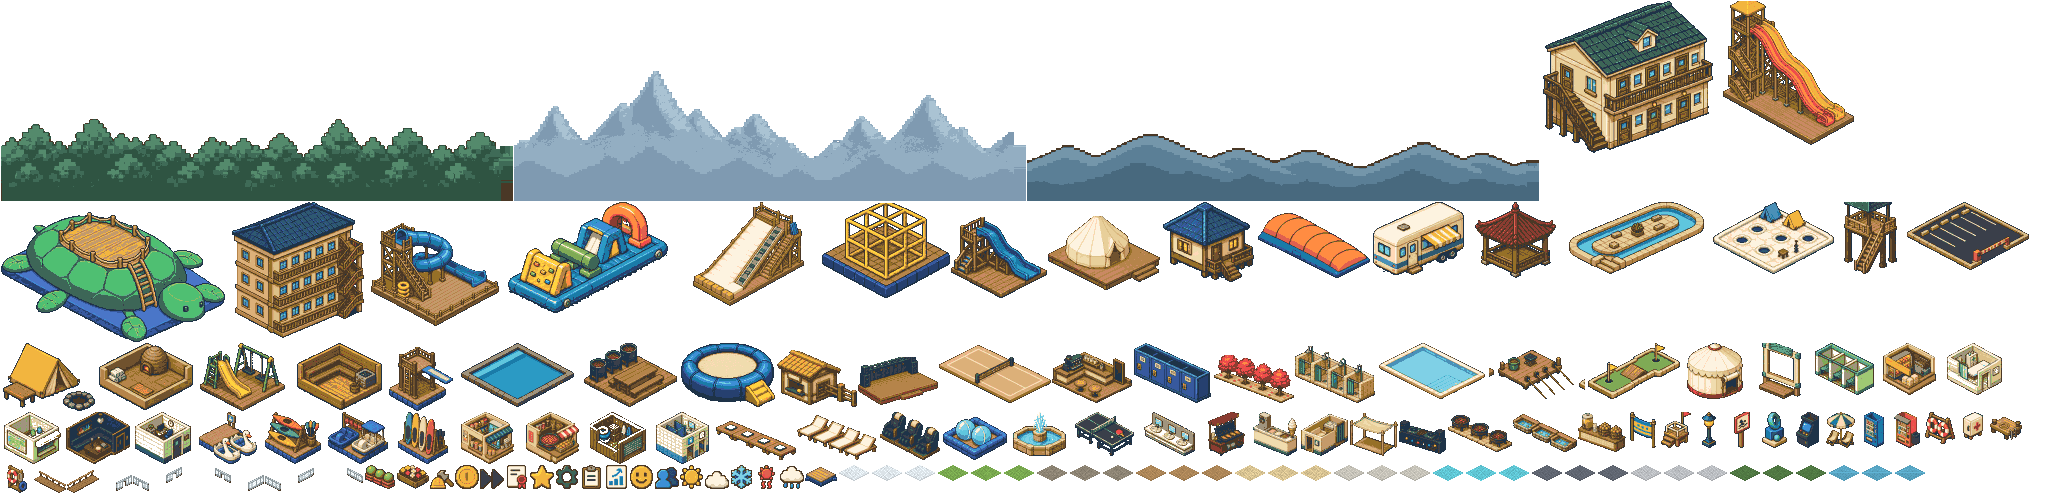
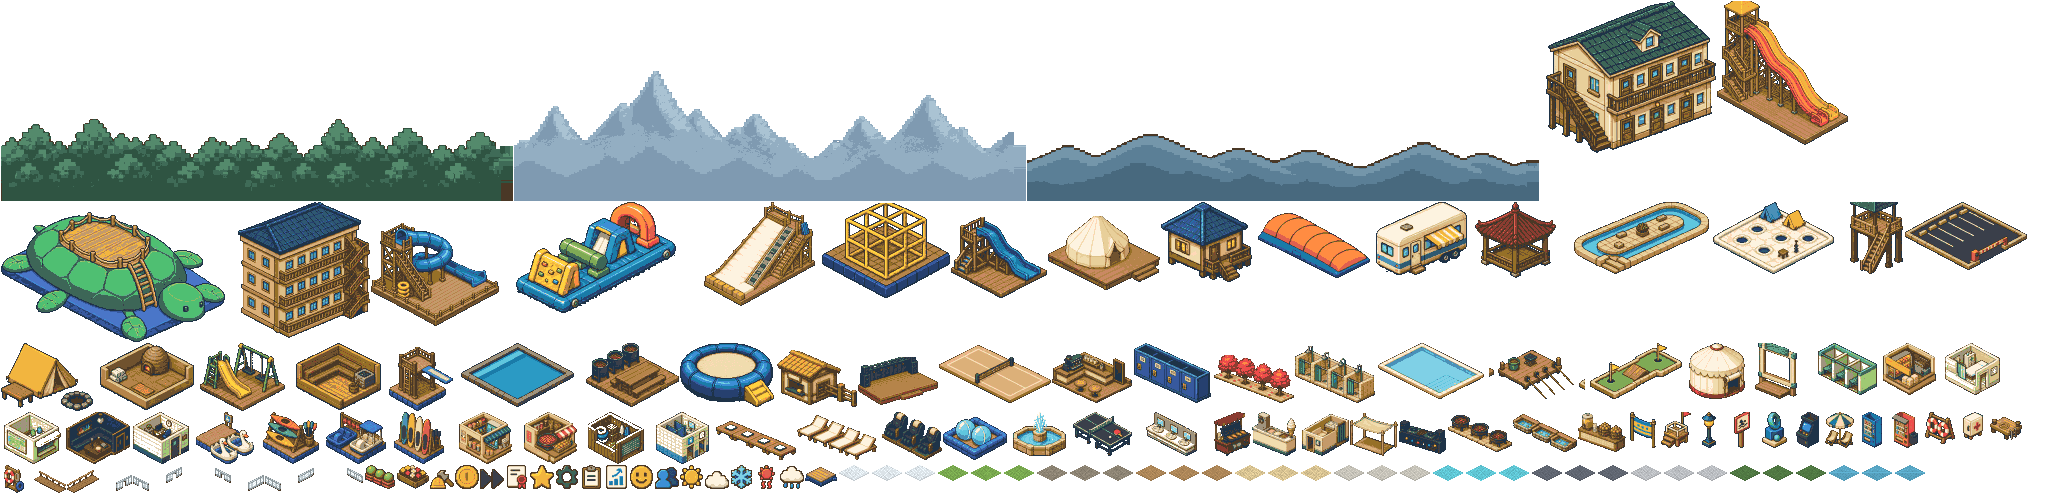
추출기가 스프라이트를 잘못된 자리에 놓고 있었다 — 접지 위반 65 → 56
각도 문제의 일부는 **그림 결함이 아니라 위치 결함**이었다. 그림을 다시 뽑지 않고 고쳤다
(원본 시트 34장이 저장소에 있어 **재추출만** 했다 — 이미지 생성 0회).

## 원인 — 가운데 정렬이 애초에 틀린 규칙이었다

`tools/process-kairo-sheet.py` 의 `render_asset` 이 피사체를 **가로 bbox 가운데**에 놓았다
(`x = (aw-rw)//2`). 그런데 계약이 요구하는 것은 **바닥 꼭짓점이 `w/(w+d)`** 다.
**정사각이면 둘 다 0.5 라 같지만 비정사각은 다르다** — 4×1 은 0.800, 2×3 은 0.400.
그래서 비정사각 시설이 전부 어긋나 있었다.

⚠ **지면이 33/33 통과하는 이유가 같은 자리에 있었다** — `render_ground_asset` 은
`diamond_mask()` 로 기하를 강제하는데 시설 경로에는 그 처리가 없다. 게이트가 그 차이를
"지면은 통과, 시설만 빨강"으로 이미 가리키고 있었다.

## 고친 방법 — 위치 교정이지 기하 보정이 아니다

`ground_vertex_shift()`: 접지 밴드(하단 `(w+d)×8` 텍셀)에서 **게이트와 같은 추정기**로
바닥 꼭짓점을 재고, 계약값(`meanX = 16w − 0.5`)까지의 차이만큼 **정수 픽셀 평행이동**한다.
발자국·`bodyH` 를 새로 선언하지 않고 **게이트가 읽는 같은 두 파일**에서 읽는다 — 규칙이
두 벌이 될 자리가 없다.

⚠ **전단·스케일·리샘플 금지.** 사용자가 "후처리로 기하 보정"을 명시적으로 물리고
"가이드+게이트로 재생성"을 골랐다. 평행이동은 **놓인 자리를 옮기는 것**이고 픽셀을 한 개도
안 바꾼다 — 그 구분을 코드 주석에 적었다.

⚠ **계획과 한 군데 다르게 했다.** "잘리면 옮기지 말고 보고"를 그대로 하니 **38종이 못
움직였다** — `render_asset` 이 피사체를 캔버스에 꽉 차게 확대해서 여백이 0 인 경우가 흔하다.
대신 **가용 여백으로 클램프**했다 (부분 이동도 무손실이고 꼭짓점 오차를 단조 감소시킨다).
`dx_wanted ≠ dx_applied` 를 리포트에 남긴다.

## 결과

| | 전 | 후 |
|---|---|---|
| 접지 위반 | **65** | **56** |
| 심각 | 19 | 17 |
| 축뒤집힘 | 12 | 11 |
| 지면 | 33/33 | 33/33 (안 건드렸다) |

**통과 9종** — `changing_row`(+3) `massage_row`(+2) `vending_in`(−2) `office`(−2)
`storage`(−2) `parking`(−2) `photozone`(−4) `vending_out`(−2) `lifering`(−3).
**나아짐 30종** · **변화 없음 36종**(dx=0 → 바이트 동일) · **나빠진 것 0**
(축 단위로도 새로 생긴 위반 축 0건).
[…]

diff --git a/tools/process-kairo-sheet.py b/tools/process-kairo-sheet.py
@@ -21,6 +21,8 @@ from PIL import Image
 ROOT = Path(__file__).resolve().parents[1]
 DEFAULT_DOC = ROOT / "docs" / "asset-prompts.md"
 DEFAULT_OUT = ROOT / "assets" / "generated" / "kairo"
+SIM_FACILITIES = ROOT / "src" / "data" / "kairo-facilities.json"
+RENDER_CONTRACT = ROOT / "src" / "assets" / "kairo-render-contract.json"
 
 GLOBAL_PALETTE = (
     "8fbc63 7faa55 9fc973 e8cf9a dcc088 f0dcae "
@@ -37,6 +39,39 @@ class Asset:
     filename: str
     width: int
     height: int
+
+
+@dataclass(frozen=True)
+class Footprint:
+    """The contract geometry a facility sprite has to sit on.
+
+    ``w`` x ``d`` tiles, drawn on a ``(w+d)*16`` x ``(w+d)*8 + body_h`` canvas whose
+    bottom ``(w+d)*8`` rows are exactly the ground diamond (see ``tools/ground-geometry.ts``).
+    """
+
+    w: int
+    d: int
+    body_h: int
+
+
+def facility_footprints() -> dict[str, Footprint]:
+    """Read `w x d` (sim) and `bodyH` (render) for every facility sprite.
+
+    Both files are the existing contract; nothing new is declared here.  The gate
+    (`tools/kairo-gate.ts`) measures against the very same two numbers, so the extractor
+    and the gate cannot drift apart.
+    """
+    sizes = {
+        f["sprite"]: (int(f["size"][0]), int(f["size"][1]))
+        for f in json.loads(SIM_FACILITIES.read_text(encoding="utf-8"))["facilities"].values()
+    }
+    out: dict[str, Footprint] = {}
+    for spec in json.loads(RENDER_CONTRACT.read_text(encoding="utf-8"))["facilities"]:
+        size = sizes.get(spec["sprite"])
+        if size is None:
+            continue
+        out[spec["sprite"]] = Footprint(size[0], size[1], int(spec["bodyH"]))
+    return out
 
 
 def section_for(doc: str, sheet: str) -> str:
@@ -273,11 +308,92 @@ def subject_bbox(cell: Image.Image, label_fraction: float) -> tuple[int, int, in
     )
 
 
+def ground_vertex_shift(
+    image: Image.Image, footprint: Footprint
+) -> tuple[int, dict[str, object]]:
+    """How many whole pixels sideways the drawing has to move to sit on its own tile.
+
+    ## Position, not geometry
+
+    This is a **lossless integer translation** — every pixel keeps its colour and its
+    neighbours, the drawing is never sheared, scaled or resampled.  It corrects *where the
+    picture was put down*, which is this tool's own doing (the old code centred the subject
+    bounding box), not *how the picture was drawn*, which is the generator's.  Drawings whose
+    angle is actually wrong are fixed by re-prompting with a guide and re-running the gate,
+    which is a deliberate project decision — so do **not** grow this into a shear/scale
+    "geometry correction".  Warping the raster would make the gate green while the sprite
+    stops matching the guide it was generated from, and the gate would no longer be measuring
+    the drawing at all.
+
+    ## Why bbox-centring is wrong
+
+    The contract puts the footprint's **bottom vertex** at `w/(w+d)` of the canvas width
+    (`tools/ground-geometry.ts`), because the canvas is the bounding box of the `w x d`
+    diamond.  That equals the middle only when `w == d`.  A 4x1 wants 0.800 and a 2x3 wants
+    0.400, so centring a non-square footprint files the drawing onto the wrong tile — up to a
+    quarter tile off.  `render_ground_asset` never had this bug because it imposes
+    `diamond_mask()`; facilities had no such step, and that is where most of the reported
+    "wrong angle" came from.
+
+    ## Never crop
+
+    Many subjects are scaled until they touch both canvas edges, so the full correction does
+    not always fit.  The shift is clamped to the empty margin actually available: moving as
+    far as the canvas allows stays lossless and strictly reduces the vertex error, while
+    cropping would trade one defect for another.  `dx_wanted != dx_applied` in the report
+    marks every sprite the canvas held back (`dx_applied == 0` means it could not move at
+    all), which is a regeneration list, not a silent pass.
+
+    Returns `(dx, details)`; `dx` is 0 when there is no measurable ground contour, when the
+    drawing is already right, or when there is no margin to move into.
+    """
+    width, height = image.size
+    band_top = footprint.body_h
+    pixels = image.load()
+
+    # Same estimator as the gate: per-column lowest opaque row inside the ground band.
+    contour: list[int | None] = []
+    for x in range(width):
+        bottom: int | None = None
+        for y in range(height - 1, band_top - 1, -1):
+            if pixels[x, y][3] >= 128:
+                bottom = y
+                break
+        contour.append(bottom)
+
+    lowest = max((y for y in contour if y is not None), default=None)
+    if lowest is None:
+        return 0, {"reason": "no ground contour"}
+    bottom_xs = [x for x, y in enumerate(contour) if y == lowest]
+    mean_x = sum(bottom_xs) / len(bottom_xs)
+
+    # Contract target.  bottomFrac is measured at pixel centres, so
+    #   (mean_x + 0.5) / width == w / (w + d)   =>   mean_x == 16w - 0.5
+    want_x = footprint.w * 16 - 0.5
+    wanted = round(want_x - mean_x)
+
+    columns = [x for x in range(width) if any(pixels[x, y][3] >= 128 for y in range(height))]
+    left, right = (columns[0], columns[-1]) if columns else (0, width - 1)
+    room_left, room_right = -left, width - 1 - right
+    applied = max(room_left, min(room_right, wanted))
+    return applied, {
+        "footprint": [footprint.w, footprint.d],
+        "body_h": footprint.body_h,
+        "bottom_frac": round((mean_x + 0.5) / width, 4),
+        "want_frac": round(footprint.w / (footprint.w + footprint.d), 4),
+        "dx_wanted": wanted,
+        "dx_applied": applied,
+        "room": [room_left, room_right],
+        "limited_by_canvas": applied != wanted,
+    }
+
+
 def render_asset(
     cell: Image.Image,
     asset: Asset,
     palette: list[tuple[int, int, int]],
     label_fraction: float,
+    footprint: Footprint | None = None,
 ) -> tuple[Image.Image, dict[str, object]]:
     bbox = subject_bbox(cell, label_fraction)
     subject = cell.crop(bbox)
@@ -302,14 +418,23 @@ def render_asset(
 
     canvas = Image.new("RGBA", (asset.width, asset.height), (0, 0, 0, 0))
     x = (asset.width - resized_width) // 2
+    # Vertical anchoring stays bottom-flush: the contract anchor is the lowest row.
     y = asset.height - resized_height
     canvas.alpha_composite(snapped, (x, y))
-    return canvas, {
+    details: dict[str, object] = {
         "source_bbox": bbox,
         "resized": [resized_width, resized_height],
         "target": [asset.width, asset.height],
         "opaque_pixels": opaque,
     }
+    if footprint is not None:
+        # Horizontal placement is decided by the ground vertex, not by the bounding box.
+        dx, align = ground_vertex_shift(canvas, footprint)
+        if dx:
+            canvas = Image.new("RGBA", (asset.width, asset.height), (0, 0, 0, 0))
+            canvas.alpha_composite(snapped, (x + dx, y))
+        details["ground_align"] = align
+    return canvas, details
 
 
 def diamond_mask(width: int = 32, height: int = 16) -> set[tuple[int, int]]:
@@ -531,6 +656,7 @@ def main() -> None:
     if len(cells) != len(assets):
         raise ValueError(f"{args.sheet}: {len(cells)} cells for {len(assets)} assets")
 
+    footprints = facility_footprints()
     args.out.mkdir(parents=True, exist_ok=True)
     report: dict[str, object] = {
         "sheet": args.sheet,
@@ -563,8 +689,10 @@ def main() -> None:
                 args.sheet == "W5",
             )
         else:
+            # Only facilities carry a footprint contract; deco, UI icons, bridges and
+            # backdrops are not measured by the ground gate and keep bbox-centring.
             output, details = render_asset(
-                cell, asset, asset_palette, label_fraction
+                cell, asset, asset_palette, label_fraction, footprints.get(asset.sprite_id)
             )
         if args.sheet in {"W14", "W15"}:
             enforce_horizontal_seam(output, asset_palette)

diff --git a/docs/asset-regen-order.md b/docs/asset-regen-order.md
@@ -1,6 +1,13 @@
 # 재생성 작업 지시서 — 접지 기하
 
-`npx tsx tools/kairo-gate.ts --geom` 실측 (2026-08-22). 위반 **65종** / 시설 75종.
+`npx tsx tools/kairo-gate.ts --geom` 실측 (2026-08-22, **추출 정렬 교정 뒤**). 위반 **56종** / 시설 75종.
+
+⚠ **직전 판(위반 65종)과 다른 목록이다.** 그 65종 중 **9종은 그림이 아니라 놓인 자리가
+틀린 것**이었다 — `tools/process-kairo-sheet.py` 의 `render_asset` 이 가로 **bbox 가운데**로
+정렬했는데 계약이 요구하는 것은 **바닥 꼭짓점이 `w/(w+d)`** 다 (정사각이 아니면 둘이 다르다).
+추출기가 이제 무손실 **정수 픽셀 평행이동**으로 그 자리를 맞춘다 (기하 보정이 아니다 —
+전단·스케일 없음). 그래서 아래 남은 이탈은 **그림 쪽 결함**이고, 가이드+게이트
+재생성으로만 고쳐진다.
 
 ## 먼저 읽을 것
 
@@ -12,88 +19,85 @@
 ⚠ **`축뒤집힘` 표시가 붙은 것은 그냥 리롤하면 안 된다** — 발자국 두 축이 바뀐 그림이라
 가이드를 **뒤집어** 다시 뽑아야 한다. 그냥 다시 뽑으면 같은 실수가 반복된다.
 
+⚠ **`여백 없음`** 은 추출기가 평행이동으로 더 밀고 싶었지만 **캔버스에 빈 자리가 없어**
+(그림이 좌우 끝에 닿아 있어) 못 민 것이다. 자르는 것은 무손실이 아니므로 갈 수 있는
+만큼만 갔다 — 즉 **이 줄들은 위치가 아니라 그림 자체가 틀렸다**는 가장 강한 신호다.
+
 ## 우선순위 A — 심각 (꼭짓점이 가로 8텍셀 이상 이탈 = 타일 폭의 1/4)
 
-| 시설 | id | 발자국 | 캔버스 | 이탈 | IoU | 축뒤집힘 |
-|---|---|---|---|---|---|---|
-| 실내 유수풀 | `pool_lazy` | 6×3 | 144×72 | 50.5tx | 0.348 | ⚠ 예 |
-| 복층 펜션 | `pension_duplex` | 6×5 | 176×152 | 42.0tx | 0.572 | ⚠ 예 |
-| 에어바운스 파크 | `airbounce` | 6×5 | 176×112 | 40.5tx | 0.437 | ⚠ 예 |
-| 미니 골프 | `minigolf` | 4×2 | 96×56 | 38.0tx | 0.325 | ⚠ 예 |
-| 카라반 | `caravan` | 4×2 | 96×76 | 33.5tx | 0.365 | ⚠ 예 |
-| 캠핑 사이트 | `camp_site` | 3×3 | 96×68 | 30.5tx | 0.416 |  |
-| 워터슬라이드(대) | `slide_large` | 4×5 | 144×144 | 30.0tx | 0.463 | ⚠ 예 |
-| 수상 트램폴린 | `trampoline_w` | 3×3 | 96×64 | 30.0tx | 0.580 |  |
-| 매표소 | `ticket` | 3×2 | 80×64 | 29.0tx | 0.480 |  |
-| 공연 무대 | `stage_river` | 3×2 | 80×62 | 24.5tx | 0.471 | ⚠ 예 |
-| 펜션 3층 | `pension` | 5×4 | 144×136 | 23.0tx | 0.590 | ⚠ 예 |
-| 방갈로 | `bungalow` | 3×3 | 96×80 | 22.0tx | 0.585 |  |
-| 아이스크림 | `icecream` | 1×2 | 48×44 | 19.5tx | 0.392 | ⚠ 예 |
-| 점프쿠션 | `jump_cushion` | 4×3 | 112×76 | 15.0tx | 0.619 |  |
-| 붕어빵 | `bungeoppang` | 2×1 | 48×44 | 14.0tx | 0.431 | ⚠ 예 |
-| 카페 | `cafe` | 2×3 | 80×60 | 12.5tx | 0.554 | ⚠ 예 |
-| 수유실 | `nursing` | 2×1 | 48×44 | 12.0tx | 0.368 | ⚠ 예 |
-| 눈썰매장 | `snow_sled` | 4×5 | 144×104 | 11.0tx | 0.565 |  |
-| DJ 부스 | `dj_booth` | 2×1 | 48×42 | 8.5tx | 0.726 |  |
+| 시설 | id | 발자국 | 캔버스 | 이탈 | IoU | 축뒤집힘 | 평행이동 |
+|---|---|---|---|---|---|---|---|
+| 실내 유수풀 | `pool_lazy` | 6×3 | 144×72 | 45.5tx | 0.392 | ⚠ 예 | ⚠ 여백 없음 |
+| 복층 펜션 | `pension_duplex` | 6×5 | 176×152 | 39.0tx | 0.604 | ⚠ 예 | ⚠ 여백 없음 |
+| 미니 골프 | `minigolf` | 4×2 | 96×56 | 36.0tx | 0.342 | ⚠ 예 | ⚠ 여백 없음 |
+| 에어바운스 파크 | `airbounce` | 6×5 | 176×112 | 32.5tx | 0.492 | ⚠ 예 | ⚠ 여백 없음 |
+| 카라반 | `caravan` | 4×2 | 96×76 | 30.5tx | 0.405 | ⚠ 예 | ⚠ 여백 없음 |
+| 매표소 | `ticket` | 3×2 | 80×64 | 29.0tx | 0.480 |  | ⚠ 여백 없음 |
+| 수상 트램폴린 | `trampoline_w` | 3×3 | 96×64 | 29.0tx | 0.557 |  | ⚠ 여백 없음 |
+| 캠핑 사이트 | `camp_site` | 3×3 | 96×68 | 28.5tx | 0.398 |  | ⚠ 여백 없음 |
+| 공연 무대 | `stage_river` | 3×2 | 80×62 | 24.5tx | 0.471 | ⚠ 예 | ⚠ 여백 없음 |
+| 워터슬라이드(대) | `slide_large` | 4×5 | 144×144 | 24.0tx | 0.514 | ⚠ 예 | ⚠ 여백 없음 |
+| 방갈로 | `bungalow` | 3×3 | 96×80 | 20.0tx | 0.616 |  | ⚠ 여백 없음 |
+| 아이스크림 | `icecream` | 1×2 | 48×44 | 18.5tx | 0.420 | ⚠ 예 | ⚠ 여백 없음 |
+| 펜션 3층 | `pension` | 5×4 | 144×136 | 17.0tx | 0.627 | ⚠ 예 | ⚠ 여백 없음 |
+| 점프쿠션 | `jump_cushion` | 4×3 | 112×76 | 15.0tx | 0.619 |  | ⚠ 여백 없음 |
+| 카페 | `cafe` | 2×3 | 80×60 | 12.5tx | 0.554 | ⚠ 예 | ⚠ 여백 없음 |
+| 수유실 | `nursing` | 2×1 | 48×44 | 11.0tx | 0.403 | ⚠ 예 | ⚠ 여백 없음 |
+| DJ 부스 | `dj_booth` | 2×1 | 48×42 | 8.5tx | 0.726 |  | ⚠ 여백 없음 |
 
 ## 우선순위 B — 나머지
 
-| 시설 | id | 발자국 | 이탈 | IoU | 축뒤집힘 |
-|---|---|---|---|---|---|
-| 거북섬 | `turtle_island` | 8×6 | 7.5tx | 0.804 |  |
-| 족구장 | `footvolley` | 4×3 | 7.0tx | 0.772 |  |
-| 낚시터 | `fishing` | 4×2 | 7.0tx | 0.609 |  |
-| 탁구대 | `pingpong` | 2×2 | 6.5tx | 0.611 |  |
-| 전망대 | `lookout` | 2×2 | 6.5tx | 0.566 |  |
-| 파라솔 | `parasol` | 1×1 | 6.0tx | 0.566 |  |
-| 글램핑 | `glamping` | 4×3 | 6.0tx | 0.755 |  |
-| 식혜·계란 코너 | `sikhye` | 2×1 | 5.5tx | 0.754 |  |
-| SUP 대여소 | `rent_sup` | 2×2 | 4.5tx | 0.607 |  |
-| 선베드 열 | `sunbed_row` | 4×1 | 4.0tx | 0.753 |  |
-| 온수 족욕 | `footbath` | 3×1 | 4.0tx | 0.821 |  |
-| 탈의실 연립 | `changing_row` | 3×1 | 3.5tx | 0.773 |  |
-| 노래방 | `karaoke` | 2×2 | 3.5tx | 0.790 |  |
-| 포토존 | `photozone` | 2×2 | 3.5tx | 0.511 |  |
-| 다이빙대 | `diving` | 2×2 | 3.5tx | 0.713 |  |
-| 구명함 | `lifering` | 1×1 | 3.0tx | 0.494 |  |
-| 오리배 선착장 | `rent_duck` | 2×2 | 3.0tx | 0.708 |  |
-| 단풍 산책로 | `maple_walk` | 4×1 | 3.0tx | 0.776 |  |
-| 안마의자 열 | `massage_row` | 3×1 | 2.5tx | 0.850 |  |
-| 분식 | `snackbar` | 2×2 | 2.5tx | 0.726 |  |
-| 자판기(실내) | `vending_in` | 1×1 | 2.5tx | 0.527 |  |
-| 의무실 | `infirmary` | 2×2 | 2.5tx | 0.734 |  |
-| 주차장 | `parking` | 4×4 | 2.5tx | 0.879 |  |
-| 화단 | `flowerbed` | 1×1 | 2.5tx | 0.708 |  |
-| 자판기(야외) | `vending_out` | 1×1 | 2.5tx | 0.608 |  |
-| 선착장 | `dock` | 1×1 | 2.5tx | 0.642 |  |
-| 패들보트 대여소 | `rent_pedal` | 2×2 | 2.5tx | 0.823 |  |
-| 창고 | `storage` | 2×2 | 2.0tx | 0.764 |  |
-| 카약 대여소 | `rent_kayak` | 2×2 | 2.0tx | 0.751 |  |
-| 샤워실 연립 | `shower_row` | 4×1 | 1.5tx | 0.784 |  |
-| 세면대 열 | `washbasin_row` | 3×1 | 1.5tx | 0.720 |  |
-| 매점 | `shop` | 2×2 | 1.5tx | 0.722 |  |
-| 사무실 | `office` | 2×2 | 1.5tx | 0.787 |  |
-| 몽골텐트 | `mongol_tent` | 2×2 | 1.5tx | 0.515 |  |
-| 사우나 | `sauna` | 3×3 | 1.0tx | 0.798 |  |
-| 평상 연립 | `pyeongsang_row` | 4×1 | 1.0tx | 0.842 |  |
-| 코인락커 열 | `locker_row` | 4×1 | 0.5tx | 0.874 |  |
-| 화장실 | `toilet` | 2×2 | 0.5tx | 0.765 |  |
-| 실내 온수풀 | `pool_warm` | 4×4 | 0.5tx | 0.802 |  |
-| 치킨 | `chicken` | 2×2 | 0.5tx | 0.742 |  |
-| 안내소 | `info` | 2×2 | 0.5tx | 0.798 |  |
-| 놀이터 | `playground` | 3×3 | 0.5tx | 0.821 |  |
-| 워터워크볼 | `waterwalk` | 2×2 | 0.5tx | 0.891 |  |
-| 정자 | `pavilion` | 3×3 | 0.0tx | 0.602 |  |
-| 분수 | `fountain` | 2×2 | 0.0tx | 0.461 |  |
-| 플로팅덱 | `float_deck` | 1×1 | 0.0tx | 0.833 |  |
+| 시설 | id | 발자국 | 이탈 | IoU | 축뒤집힘 | 평행이동 |
+|---|---|---|---|---|---|---|
+| 사우나 | `sauna` | 3×3 | 0.0tx | 0.803 |  |  |
+| 정자 | `pavilion` | 3×3 | 0.0tx | 0.602 |  |  |
+| 분수 | `fountain` | 2×2 | 0.0tx | 0.461 |  |  |
+| 플로팅덱 | `float_deck` | 1×1 | 0.0tx | 0.833 |  |  |
+| 카약 대여소 | `rent_kayak` | 2×2 | 0.0tx | 0.794 |  |  |
+| 오리배 선착장 | `rent_duck` | 2×2 | 0.0tx | 0.731 |  |  |
+| 눈썰매장 | `snow_sled` | 4×5 | 0.0tx | 0.635 |  |  |
+| 붕어빵 | `bungeoppang` | 2×1 | 8.0tx | 0.556 |  | ⚠ 여백 없음 |
+| 거북섬 | `turtle_island` | 8×6 | 7.5tx | 0.804 |  | ⚠ 여백 없음 |
+| 족구장 | `footvolley` | 4×3 | 7.0tx | 0.772 |  | ⚠ 여백 없음 |
+| 낚시터 | `fishing` | 4×2 | 7.0tx | 0.609 |  | ⚠ 여백 없음 |
+| 글램핑 | `glamping` | 4×3 | 6.0tx | 0.755 |  | ⚠ 여백 없음 |
+| 식혜·계란 코너 | `sikhye` | 2×1 | 5.5tx | 0.754 |  | ⚠ 여백 없음 |
+| 파라솔 | `parasol` | 1×1 | 5.0tx | 0.508 |  | ⚠ 여백 없음 |
+| 탁구대 | `pingpong` | 2×2 | 4.5tx | 0.634 |  | ⚠ 여백 없음 |
+| 선베드 열 | `sunbed_row` | 4×1 | 4.0tx | 0.753 |  | ⚠ 여백 없음 |
+| 온수 족욕 | `footbath` | 3×1 | 4.0tx | 0.821 |  | ⚠ 여백 없음 |
+| 노래방 | `karaoke` | 2×2 | 3.5tx | 0.790 |  | ⚠ 여백 없음 |
+| 다이빙대 | `diving` | 2×2 | 3.5tx | 0.713 |  | ⚠ 여백 없음 |
+| 단풍 산책로 | `maple_walk` | 4×1 | 3.0tx | 0.776 |  | ⚠ 여백 없음 |
+| 화단 | `flowerbed` | 1×1 | 2.5tx | 0.708 |  | ⚠ 여백 없음 |
+| 선착장 | `dock` | 1×1 | 2.5tx | 0.642 |  | ⚠ 여백 없음 |
+| 샤워실 연립 | `shower_row` | 4×1 | 1.5tx | 0.784 |  | ⚠ 여백 없음 |
+| 평상 연립 | `pyeongsang_row` | 4×1 | 1.0tx | 0.842 |  | ⚠ 여백 없음 |
+| 코인락커 열 | `locker_row` | 4×1 | 0.5tx | 0.874 |  |  |
+| 세면대 열 | `washbasin_row` | 3×1 | 0.5tx | 0.776 |  |  |
+| 화장실 | `toilet` | 2×2 | 0.5tx | 0.765 |  |  |
+| 실내 온수풀 | `pool_warm` | 4×4 | 0.5tx | 0.802 |  |  |
+| 매점 | `shop` | 2×2 | 0.5tx | 0.748 |  |  |
+| 분식 | `snackbar` | 2×2 | 0.5tx | 0.748 |  |  |
+| 치킨 | `chicken` | 2×2 | 0.5tx | 0.742 |  |  |
+| 안내소 | `info` | 2×2 | 0.5tx | 0.798 |  |  |
+| 의무실 | `infirmary` | 2×2 | 0.5tx | 0.795 |  |  |
+| 몽골텐트 | `mongol_tent` | 2×2 | 0.5tx | 0.511 |  |  |
+| 전망대 | `lookout` | 2×2 | 0.5tx | 0.541 |  |  |
+| 워터워크볼 | `waterwalk` | 2×2 | 0.5tx | 0.891 |  |  |
+| 패들보트 대여소 | `rent_pedal` | 2×2 | 0.5tx | 0.829 |  |  |
+| SUP 대여소 | `rent_sup` | 2×2 | 0.5tx | 0.680 |  |  |
+| 놀이터 | `playground` | 3×3 | 0.5tx | 0.821 |  |  |
 
 ## 합계
 
-- 위반 **65종** (심각 19 · 나머지 46)
-- **축뒤집힘 12종** — 가이드를 뒤집어 재생성
-- 통과 10종은 건드리지 말 것: `arcade` `bbq_zone` `firepit_row` `ice_fishing`
-  `jjimjilbang` `junglegym_w` `pool_kids` `shade_net` `slide_small` `slide_tube`
-- 지면 33장은 **33/33 통과** — 재생성 대상 아니다
+- 위반 **56종** (심각 17 · 나머지 39)
+- **축뒤집힘 11종** — 가이드를 뒤집어 재생성
+- 평행이동이 캔버스에 막힌 것 **34종**
+- 통과 19종은 건드리지 말 것: `arcade` `bbq_zone` `changing_row` `firepit_row` `ice_fishing` `jjimjilbang` `junglegym_w` `lifering` `massage_row` `office` `parking` `photozone` `pool_kids` `shade_net` `slide_small` `slide_tube` `storage` `vending_in` `vending_out`
+- 그중 **9종은 이번 정렬 교정으로 통과했다**: `changing_row` `lifering` `massage_row` `office` `parking` `photozone` `storage` `vending_in` `vending_out`
+- 지면 33장은 **33/33 통과** — 재생성 대상 아니다 (후처리가 지면에만 `diamond_mask()` 로
+  기하를 강제한다. 시설의 접지 **모양**은 여전히 그림이 책임진다)
 
 ## 4방향(선택) — 창구·탑승·무대 25종
 
